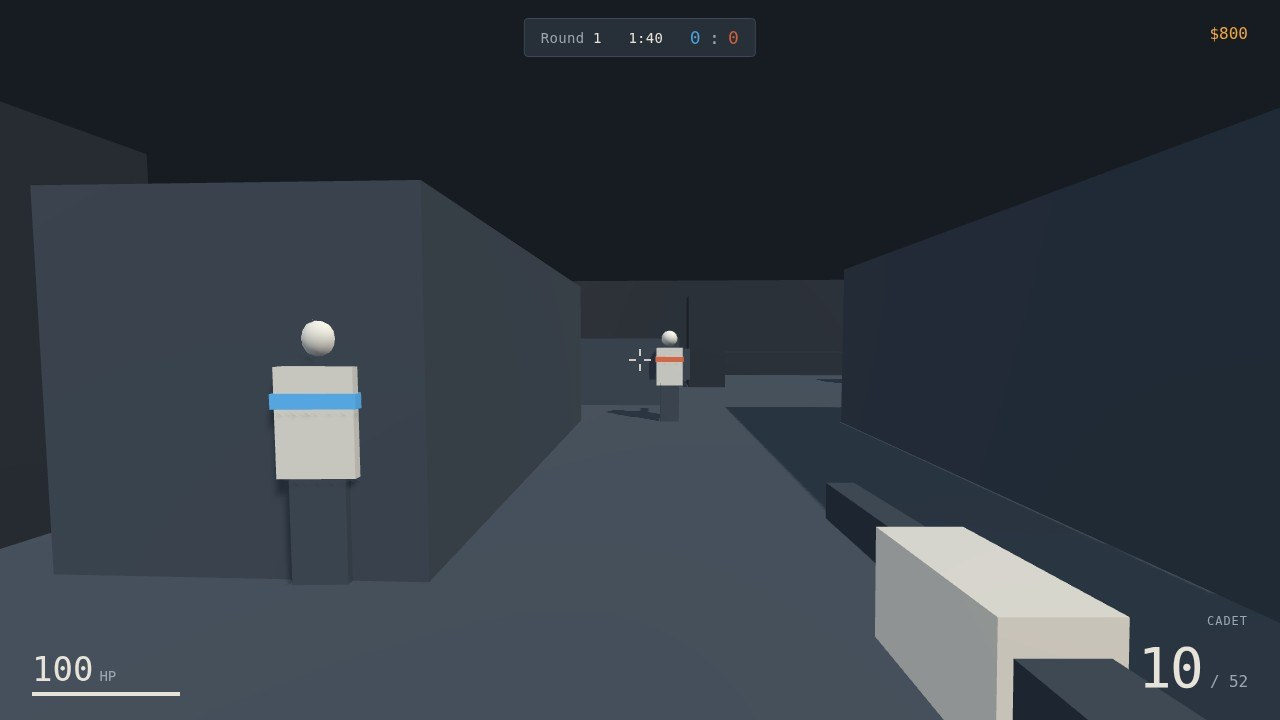
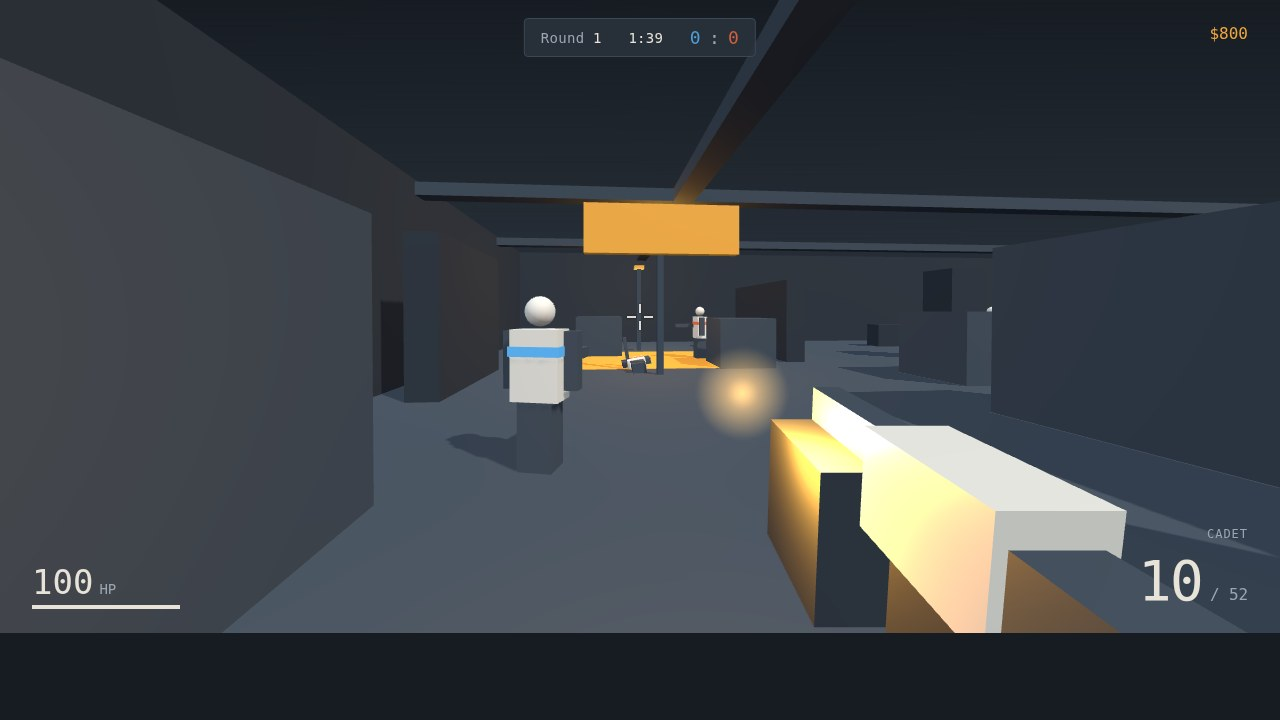
Harbor Line: a dusk sky, ceiling beams and lit site boards, gloved hands on the view model, a glow for the muzzle flash, and the round clock wired to the HUD
- world.js: fog lifted to the palette's surface tone, a painted dusk sky in main.js, softer lamp
  pools, ceiling beams and a board hanging off each site's beam; trim() keeps decorations out of
  the collider and shootable lists.
- weapon.js: the muzzle flash is a soft radial glow, the view model carries two gloved hands, and
  the flash light no longer blows the gun out.
- main.js: the HUD round clock is the round's own countdown (it was never written: the field read
  1:40 forever); a shot freezes the simulation before it poses and stops the loop once its two
  frames are drawn, so a capture is exactly the posed frame however slow the machine is.
- shots.json and screenshots/: cover firefight on the west quay, the title card, the plant at A and
  the losing card at B, all real renders at 1280x720 from ?shot=...

diff --git a/game/src/main.js b/game/src/main.js
@@ -41,9 +41,29 @@ renderer.shadowMap.enabled = true;
 renderer.shadowMap.type = THREE.PCFSoftShadowMap;
 document.getElementById('game').appendChild(renderer.domElement);
 
+// The sky is painted once at boot from the palette alone: a dusk ramp, dark overhead and lifting
+// to the haze at the horizon, so the fog and the far walls meet a sky of the same family. It is
+// drawn by code, so the entry ships no image for it.
+function duskSky() {
+  const canvas = document.createElement('canvas');
+  canvas.width = 4;
+  canvas.height = 256;
+  const paint = canvas.getContext('2d');
+  const ramp = paint.createLinearGradient(0, 0, 0, canvas.height);
+  ramp.addColorStop(0, PALETTE.canvas);
+  ramp.addColorStop(0.55, PALETTE.surface);
+  ramp.addColorStop(0.86, PALETTE.hairline);
+  ramp.addColorStop(1, PALETTE.surface);
+  paint.fillStyle = ramp;
+  paint.fillRect(0, 0, canvas.width, canvas.height);
+  const texture = new THREE.CanvasTexture(canvas);
+  texture.colorSpace = THREE.SRGBColorSpace;
+  return texture;
+}
+
 const scene = new THREE.Scene();
-scene.background = new THREE.Color(PALETTE.canvas);
-scene.fog = new THREE.Fog(new THREE.Color(PALETTE.canvas), 26, 72);
+scene.background = duskSky();
+scene.fog = new THREE.Fog(new THREE.Color(PALETTE.surface), 34, 140);
 const camera = new THREE.PerspectiveCamera(76, window.innerWidth / window.innerHeight, 0.05, 140);
 scene.add(camera);
 
@@ -456,6 +476,8 @@ function step(dt) {
   }
 
   // Bomb clock and the plant hint are HUD facts derived from the round, never a second timer.
+  // The round clock is the round's own countdown, whichever phase it is serving.
+  hud.setTimer(rounds.state.timer, rounds.state.phase === 'live' && rounds.state.timer <= 20);
   const bomb = rounds.state.bomb;
   if (bomb.planted) {
     hud.setBomb(`Charge at ${bomb.site}: ${Math.ceil(bomb.timer)}s`);
@@ -467,6 +489,9 @@ function step(dt) {
 }
 
 function frame(now) {
+  // A shot renders its two frames itself and then stops: nothing is drawn after them, so the
+  // camera's page is a still, and capturing it costs the machine nothing more.
+  if (shot && frozen) return;
   requestAnimationFrame(frame);
   const dt = Math.min((now - lastTime) / 1000, 0.1);
   lastTime = now;
@@ -520,42 +545,78 @@ function poseBots(list) {
 }
 
 function runShot(name) {
+  // Frozen from the first line: the preset below poses the round by stepping it directly, so the
+  // frame a camera catches later is the frame the preset set, however slow the machine is.
+  frozen = true;
   hud.hideOverlay();
   hud.closeBuy();
   hud.setBomb(null);
   beginRound();
-  if (name === 'start') {
-    openBuy();
-    settle(30);
-  } else if (name === 'play') {
-    body.position.set(-5.2, 0, 6.4);
-    body.yaw = 0.12;
+  // The buy phase is run out first, so a posed frame is a live round with its clock running.
+  const toLive = () => settle(780);
+  if (name === 'title') {
+    // The opening card, with the mid hall behind it: the two squads are already walking it, so
+    // the card is not pasted over a still.
+    body.position.set(-5.4, 0, 6.4);
     poseBots([
-      { team: 'salt', slot: 0, x: -5.6, z: -2.2, yaw: 0 },
-      { team: 'salt', slot: 1, x: -10.2, z: -3.4, yaw: 0.5 },
-      { team: 'tide', slot: 1, x: -7.4, z: 3.4, yaw: 0.05 },
-      { team: 'tide', slot: 2, x: -1.4, z: 4.2, yaw: -0.2 },
+      { team: 'tide', slot: 1, x: -5.8, z: 3.2, yaw: 0.05 },
+      { team: 'tide', slot: 2, x: -4.4, z: 4.6, yaw: -0.1 },
+      { team: 'salt', slot: 0, x: -5.0, z: -5.6, yaw: 3.1 },
+      { team: 'salt', slot: 2, x: -3.4, z: -7.6, yaw: -3.0 },
     ]);
     settle(20);
-    aimAt(-5.6, 1.4, -2.2);
-    for (let burst = 0; burst < 3; burst += 1) {
+    aimAt(-5.0, 1.5, -5.6);
+    hud.showOverlay('start');
+  } else if (name === 'play') {
+    // The cover: the west quay, a defender in front of the lit site board, our burst in the air.
+    toLive();
+    body.position.set(-15.4, 0, 3.4);
+    body.pitch = 0;
+    poseBots([
+      { team: 'salt', slot: 1, x: -14.4, z: -7.0, yaw: 3.0 },
+      { team: 'salt', slot: 2, x: -12.6, z: -10.6, yaw: 2.4 },
+      { team: 'tide', slot: 1, x: -16.8, z: -1.0, yaw: 0.1 },
+      { team: 'tide', slot: 2, x: -15.9, z: -11.4, yaw: -0.1 },
+    ]);
+    settle(20);
+    aimAt(-14.4, 1.35, -7.0);
+    body.pitch += 0.05;
+    for (let burst = 0; burst < 2; burst += 1) {
       shoot();
-      settle(6);
-      aimAt(-5.6 + (random() - 0.5) * 0.5, 1.2, -2.2);
+      settle(5);
+      aimAt(-14.4 + (random() - 0.5) * 0.3, 1.3, -7.0);
     }
+    shoot();
     settle(1);
   } else if (name === 'plant') {
-    body.position.set(-14.4, 0, -7.2);
+    // Stepped back onto the lane mouth, so the site, its board and the charge are all in frame.
+    toLive();
+    body.position.set(-12.2, 0, -3.4);
     poseBots([
-      { team: 'salt', slot: 1, x: -9.4, z: -11.4, yaw: 0.9 },
-      { team: 'tide', slot: 1, x: -12.6, z: -5.4, yaw: 0.2 },
+      { team: 'salt', slot: 1, x: -8.6, z: -12.8, yaw: 0.9 },
+      { team: 'tide', slot: 1, x: -13.4, z: -6.6, yaw: 0.15 },
     ]);
     rounds.plant(-14, 0, 'A', []);
     charge.visible = true;
-    charge.position.set(-14, 0.1, -9);
+    charge.position.set(-14, 0.1, -10);
     hud.setBomb('Charge planted at A');
-    aimAt(-14, 0.6, -9);
+    aimAt(-14, 0.9, -9.8);
     settle(24);
+  } else if (name === 'lost') {
+    // The other ending, posed at B: Salt held it, and the card offers the next round.
+    toLive();
+    body.position.set(12.4, 0, -1.2);
+    poseBots([
+      { team: 'salt', slot: 2, x: 14.0, z: -7.4, yaw: 2.9 },
+      { team: 'salt', slot: 1, x: 11.6, z: -9.6, yaw: 2.3 },
+      { team: 'tide', slot: 1, x: 13.4, z: -2.4, yaw: 0.1 },
+    ]);
+    rounds.state.score.tide = 1;
+    rounds.state.score.salt = 3;
+    hud.setScore(1, 3);
+    settle(16);
+    aimAt(14, 1.4, -8.0);
+    hud.showOverlay('lost', 'Salt held B. Next round when you click.');
   } else {
     rounds.state.score.tide = 3;
     rounds.state.score.salt = 1;

diff --git a/game/src/weapon.js b/game/src/weapon.js
@@ -32,8 +32,26 @@ export const GEAR = {
   frag: { name: 'Frag', price: 300, kind: 'gear' },
 };
 
-const MUZZLE_TIME = 0.06;
+const MUZZLE_TIME = 0.09;
 const MOVE_REFERENCE = 5.2;
+
+// A soft round glow, drawn once: white at the middle, nothing at the rim. Used as the muzzle
+// flash's map so the flash is light rather than a flat block of colour.
+function glowTexture() {
+  const canvas = document.createElement('canvas');
+  canvas.width = 32;
+  canvas.height = 32;
+  const paint = canvas.getContext('2d');
+  const ramp = paint.createRadialGradient(16, 16, 0, 16, 16, 16);
+  ramp.addColorStop(0, 'rgba(255,255,255,1)');
+  ramp.addColorStop(0.35, 'rgba(255,255,255,0.55)');
+  ramp.addColorStop(1, 'rgba(255,255,255,0)');
+  paint.fillStyle = ramp;
+  paint.fillRect(0, 0, 32, 32);
+  const texture = new THREE.CanvasTexture(canvas);
+  texture.colorSpace = THREE.SRGBColorSpace;
+  return texture;
+}
 
 export function createWeapon(camera) {
   const gripMaterial = new THREE.MeshStandardMaterial({ color: new THREE.Color(PALETTE.hairline), roughness: 0.7, metalness: 0.2 });
@@ -43,14 +61,31 @@ export function createWeapon(camera) {
   const receiver = new THREE.Mesh(new THREE.BoxGeometry(0.1, 0.1, 0.1), bodyMaterial);
   const barrel = new THREE.Mesh(new THREE.BoxGeometry(0.1, 0.1, 0.1), gripMaterial);
   const stock = new THREE.Mesh(new THREE.BoxGeometry(0.1, 0.1, 0.1), gripMaterial);
-  model.add(receiver, barrel, stock);
-  model.position.set(0.3, -0.24, -0.52);
+  // Two gloved hands on the gun. They are the whole difference between a floating box and a
+  // weapon the player is holding, which is what a screenshot of the view has to read as.
+  const gloveMaterial = new THREE.MeshStandardMaterial({ color: new THREE.Color(PALETTE.surface), roughness: 0.8, metalness: 0.05 });
+  const gripHand = new THREE.Mesh(new THREE.BoxGeometry(0.11, 0.16, 0.12), gloveMaterial);
+  gripHand.position.set(0.03, -0.11, 0.04);
+  const foreHand = new THREE.Mesh(new THREE.BoxGeometry(0.11, 0.14, 0.13), gloveMaterial);
+  foreHand.position.set(0.03, -0.1, -0.18);
+  model.add(receiver, barrel, stock, gripHand, foreHand);
+  model.position.set(0.3, -0.19, -0.52);
   model.scale.setScalar(1.7);
   camera.add(model);
 
+  // The muzzle flash is a soft glow, not a square: a small radial ramp drawn at boot (no asset to
+  // load) reads as light leaving the barrel instead of a flat block pasted over the frame.
   const flash = new THREE.Mesh(
-    new THREE.PlaneGeometry(0.24, 0.24),
-    new THREE.MeshBasicMaterial({ color: new THREE.Color(PALETTE.accent), transparent: true, opacity: 0.9, depthWrite: false, side: THREE.DoubleSide }),
+    new THREE.PlaneGeometry(0.22, 0.22),
+    new THREE.MeshBasicMaterial({
+      map: glowTexture(),
+      color: new THREE.Color(PALETTE.accent),
+      transparent: true,
+      opacity: 0.9,
+      depthWrite: false,
+      blending: THREE.AdditiveBlending,
+      side: THREE.DoubleSide,
+    }),
   );
   flash.position.set(0.24, -0.18, -0.95);
   flash.visible = false;
@@ -95,8 +130,7 @@ export function createWeapon(camera) {
     model.position.z = -0.42 + state.kick;
     model.rotation.x = state.kick * 2.2;
     flash.visible = state.flash > 0;
-    flash.rotation.z = state.flash * 30;
-    flashLight.intensity = state.flash > 0 ? 18 : 0;
+    flashLight.intensity = state.flash > 0 ? 7 : 0;
     if (state.reloadLeft > 0) {
       const def = WEAPONS[state.key];
       state.reloadLeft = Math.max(0, state.reloadLeft - dt);

diff --git a/game/src/world.js b/game/src/world.js
@@ -62,6 +62,19 @@ const PAINT = [
   [5.4, 0.02, 4.6, 14, 0.02, -10, 'accent'],
 ];
 
+// Trim: ceiling lines and the two site boards. Nothing here collides with a body, and each board
+// hangs off a ceiling beam, so it reads as a sign over the site's mouth rather than a block in
+// mid-air.
+const TRIMS = [
+  [40.6, 0.3, 0.5, 0, 4.4, -6.5, 'hairline'],
+  [40.6, 0.3, 0.5, 0, 4.4, -13.5, 'hairline'],
+  [40.6, 0.3, 0.5, 0, 4.4, 9.5, 'hairline'],
+  [0.5, 0.3, 36.6, -13.5, 4.4, 0, 'hairline'],
+  [0.5, 0.3, 36.6, 13.5, 4.4, 0, 'hairline'],
+  [3.8, 1.2, 0.3, -14, 3.6, -6.5, 'accent'],
+  [3.8, 1.2, 0.3, 14, 3.6, -6.5, 'accent'],
+];
+
 const LAMPS = [
   [-14, 3.4, -13.2],
   [-14, 3.4, -6.8],
@@ -114,7 +127,7 @@ export function createWorld(scene) {
     });
   }
   materials.accent.emissive = new THREE.Color(PALETTE.accent);
-  materials.accent.emissiveIntensity = 0.25;
+  materials.accent.emissiveIntensity = 0.14;
 
   const colliders = [];
   const shootables = [];
@@ -130,7 +143,18 @@ export function createWorld(scene) {
     return mesh;
   }
 
+  // Trim: the pieces that are looked at, never bumped into. They sit out of body height (beams
+  // overhead, boards on a wall) so nothing the bodies do needs them as a collider, and they cast
+  // no shadow, which keeps the one shadow map on the map itself.
+  function trim(width, height, depth, x, y, z, material) {
+    const mesh = new THREE.Mesh(new THREE.BoxGeometry(width, height, depth), materials[material]);
+    mesh.position.set(x, y, z);
+    group.add(mesh);
+    return mesh;
+  }
+
   for (const spec of BOXES) solid(...spec);
+  for (const spec of TRIMS) trim(...spec);
   for (const spec of PAINT) {
     const mesh = new THREE.Mesh(new THREE.BoxGeometry(spec[0], spec[1], spec[2]), materials[spec[6]]);
     mesh.position.set(spec[3], spec[4], spec[5]);
@@ -148,18 +172,18 @@ export function createWorld(scene) {
     const bulb = new THREE.Mesh(new THREE.BoxGeometry(0.4, 0.14, 0.4), materials.accent);
     bulb.position.set(x, y, z);
     group.add(bulb);
-    const light = new THREE.PointLight(new THREE.Color(PALETTE.accent), 22, 19, 2);
+    const light = new THREE.PointLight(new THREE.Color(PALETTE.accent), 16, 26, 2);
     light.position.set(x, y - 0.2, z);
     scene.add(light);
   }
 
-  const ambient = new THREE.AmbientLight(new THREE.Color(PALETTE.muted), 0.45);
+  const ambient = new THREE.AmbientLight(new THREE.Color(PALETTE.muted), 0.7);
   scene.add(ambient);
 
-  const sky = new THREE.HemisphereLight(new THREE.Color(PALETTE.muted), new THREE.Color(PALETTE.surface), 3.1);
+  const sky = new THREE.HemisphereLight(new THREE.Color(PALETTE.muted), new THREE.Color(PALETTE.surface), 4.2);
   scene.add(sky);
 
-  const key = new THREE.DirectionalLight(new THREE.Color(PALETTE.ink), 3.2);
+  const key = new THREE.DirectionalLight(new THREE.Color(PALETTE.ink), 3.0);
   key.position.set(12, 18, 10);
   key.target.position.set(0, 0, -2);
   key.castShadow = true;
@@ -172,7 +196,7 @@ export function createWorld(scene) {
   key.shadow.bias = -0.0006;
   scene.add(key, key.target);
 
-  const fill = new THREE.DirectionalLight(new THREE.Color(PALETTE.muted), 1.4);
+  const fill = new THREE.DirectionalLight(new THREE.Color(PALETTE.muted), 2.2);
   fill.position.set(-10, 11, 12);
   scene.add(fill);
 

diff --git a/game/index.html b/game/index.html
@@ -34,12 +34,12 @@
   #hud { position: fixed; inset: 0; pointer-events: none; }
   #hud [hidden] { display: none; }
 
-  #crosshair { position: fixed; left: 50%; top: 50%; width: 22px; height: 22px; transform: translate(-50%, -50%); }
-  #crosshair i { position: absolute; background: var(--ink); opacity: .85; }
-  #crosshair i:nth-child(1) { left: 10px; top: 0; width: 2px; height: 7px; }
-  #crosshair i:nth-child(2) { left: 10px; bottom: 0; width: 2px; height: 7px; }
-  #crosshair i:nth-child(3) { top: 10px; left: 0; height: 2px; width: 7px; }
-  #crosshair i:nth-child(4) { top: 10px; right: 0; height: 2px; width: 7px; }
+  #crosshair { position: fixed; left: 50%; top: 50%; width: 26px; height: 26px; transform: translate(-50%, -50%); }
+  #crosshair i { position: absolute; background: var(--ink); opacity: .95; box-shadow: 0 0 2px var(--canvas); }
+  #crosshair i:nth-child(1) { left: 12px; top: 0; width: 2px; height: 9px; }
+  #crosshair i:nth-child(2) { left: 12px; bottom: 0; width: 2px; height: 9px; }
+  #crosshair i:nth-child(3) { top: 12px; left: 0; height: 2px; width: 9px; }
+  #crosshair i:nth-child(4) { top: 12px; right: 0; height: 2px; width: 9px; }
 
   #hitmarker { position: fixed; left: 50%; top: 50%; width: 26px; height: 26px; transform: translate(-50%, -50%) rotate(45deg); opacity: 0; transition: opacity 90ms linear; }
   #hitmarker.on { opacity: 1; }
@@ -156,7 +156,7 @@
     inset: 0;
     display: grid;
     place-items: center;
-    background: color-mix(in srgb, var(--canvas) 55%, transparent);
+    background: color-mix(in srgb, var(--canvas) 34%, transparent);
     pointer-events: auto;
   }
   #buy .panel { width: min(520px, 100%); }
@@ -186,7 +186,12 @@
     display: grid;
     place-items: center;
     padding: 24px;
-    background: color-mix(in srgb, var(--canvas) 86%, transparent);
+    /* Dark at the top and bottom, lighter where the card sits, so the round behind the card is
+       still part of the picture rather than a black screen. */
+    background: linear-gradient(180deg,
+      color-mix(in srgb, var(--canvas) 72%, transparent),
+      color-mix(in srgb, var(--canvas) 30%, transparent) 52%,
+      color-mix(in srgb, var(--canvas) 76%, transparent));
     pointer-events: auto;
   }
   .overlay[hidden] { display: none; }
@@ -196,6 +201,7 @@
     background: var(--surface);
     border: 1px solid var(--hairline);
     border-radius: var(--radius-panel);
+    box-shadow: 0 14px 44px color-mix(in srgb, var(--canvas) 78%, transparent);
   }
   .panel h1 {
     margin: 0 0 8px;

diff --git a/README.md b/README.md
@@ -36,5 +36,13 @@ Controls: `WASD` move, mouse look, click fire, `R` reload, `Ctrl` crouch, `Space
 
 ## Screenshots
 
-`screenshots/` holds real renders of this code, taken from the game's own deterministic shot
-harness: the queries in `shots.json` pose the round, render two frames and stop.
+`screenshots/` holds four real renders of this code, taken from the game's own deterministic shot
+harness, all at 1280x720 and all of the same round: the queries in `shots.json` pose the round,
+render two frames, and stop.
+
+| File | The frame it poses |
+| --- | --- |
+| `1-fight.jpg` | The cover: a burst of fire down the west quay, the lit site board behind the defender |
+| `2-title.jpg` | The opening card, with the two squads already walking up the mid hall behind it |
+| `3-plant.jpg` | The charge planted at A, its state line in the HUD |
+| `4-lost.jpg` | The other ending, with Salt three rounds up and the next round a click away |
